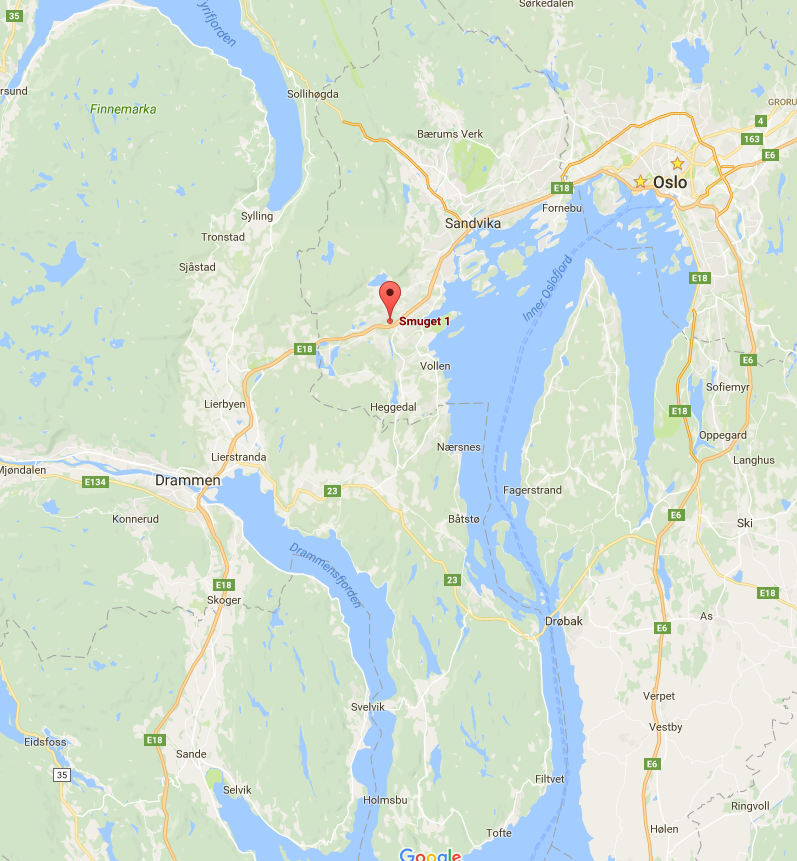
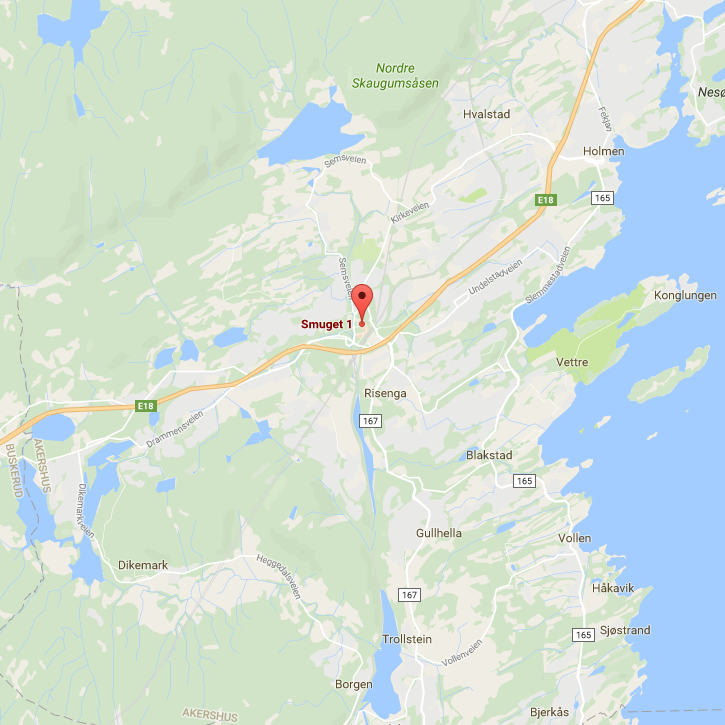
final touches

diff --git a/docs/assets/styles/styles-b0dd0bec4f.css b/docs/assets/styles/styles-b0dd0bec4f.css
@@ -1,0 +1,1 @@
+/*! normalize.css v5.0.0 | MIT License | github.com/necolas/normalize.css */html{font-family:sans-serif;line-height:1.15;-ms-text-size-adjust:100%;-webkit-text-size-adjust:100%}body{margin:0}article,aside,footer,header,nav,section{display:block}h1{font-size:2em;margin:.67em 0}figcaption,figure,main{display:block}figure{margin:1em 40px}hr{box-sizing:content-box;height:0;overflow:visible}pre{font-family:monospace,monospace;font-size:1em}a{background-color:transparent;-webkit-text-decoration-skip:objects}a:active,a:hover{outline-width:0}abbr[title]{border-bottom:none;text-decoration:underline;text-decoration:underline dotted}b,strong{font-weight:inherit;font-weight:bolder}code,kbd,samp{font-family:monospace,monospace;font-size:1em}dfn{font-style:italic}mark{background-color:#ff0;color:#000}small{font-size:80%}sub,sup{font-size:75%;line-height:0;position:relative;vertical-align:baseline}sub{bottom:-.25em}sup{top:-.5em}audio,video{display:inline-block}audio:not([controls]){display:none;height:0}img{border-style:none}svg:not(:root){overflow:hidden}button,input,optgroup,select,textarea{font-family:sans-serif;font-size:100%;line-height:1.15;margin:0}button,input{overflow:visible}button,select{text-transform:none}[type=reset],[type=submit],button,html [type=button]{-webkit-appearance:button}[type=button]::-moz-focus-inner,[type=reset]::-moz-focus-inner,[type=submit]::-moz-focus-inner,button::-moz-focus-inner{border-style:none;padding:0}[type=button]:-moz-focusring,[type=reset]:-moz-focusring,[type=submit]:-moz-focusring,button:-moz-focusring{outline:1px dotted ButtonText}fieldset{border:1px solid silver;margin:0 2px;padding:.35em .625em .75em}legend{box-sizing:border-box;color:inherit;display:table;max-width:100%;padding:0;white-space:normal}progress{display:inline-block;vertical-align:baseline}textarea{overflow:auto}[type=checkbox],[type=radio]{box-sizing:border-box;padding:0}[type=number]::-webkit-inner-spin-button,[type=number]::-webkit-outer-spin-button{height:auto}[type=search]{-webkit-appearance:textfield;outline-offset:-2px}[type=search]::-webkit-search-cancel-button,[type=search]::-webkit-search-decoration{-webkit-appearance:none}::-webkit-file-upload-button{-webkit-appearance:button;font:inherit}details,menu{display:block}summary{display:list-item}canvas{display:inline-block}[hidden],template{display:none}*{box-sizing:border-box}body{font-family:Open-Sans,sans-serif;color:#333;overflow:visible}img{max-width:100%;height:auto;vertical-align:middle}a{color:#353535}@font-face{font-family:MyriadWebPro;src:url(../images/fonts/MyriadWebPro.ttf)}@font-face{font-family:MinionProSemibold;src:url(../images/fonts/MinionProSemibold.otf)}@font-face{font-family:MinionPro;src:url(../images/fonts/MinionPro.otf)}@font-face{font-family:MinionProRegular;src:url(../images/fonts/MinionProRegular.otf)}@font-face{font-family:MinionProBold;src:url(../images/fonts/MinionProBold.otf)}@font-face{font-family:MinionProMedium;src:url(../images/fonts/MinionProMedium.otf)}.icon{background-image:url(../../assets/images/sprites/sprite-0f9283b3.svg)}.icon--clear-view-escapes{width:142.4px;height:59.53px;background-position:0 0}.icon--comment{width:64px;height:64px;background-position:99.70443349753694% 0}.icon--facebook{width:21.23px;height:42.01px;background-position:26.040607071652357% 45.795830448496034%}.icon--fire{width:56px;height:64px;background-position:0 99.56481481481481%}.icon--globe{width:64px;height:64px;background-position:27.586206896551722% 99.56481481481481%}.icon--instagram{width:42.01px;height:42.01px;background-position:63.2917018534157% 49.234556504346486%}.icon--mail{width:64px;height:48px;background-position:0 48.00806451612903%}.icon--rain{width:64px;height:64px;background-position:99.70443349753694% 59.25925925925926%}.icon--star{width:64px;height:64px;background-position:59.11330049261084% 99.56481481481481%}.icon--twitter{width:51.78px;height:42.06px;background-position:94.04330452560171% 98.50700323226104%}.icon--wifi{width:60px;height:64px;background-position:68.79227053140097% 0}.icon--youtube{width:34.75px;height:42px;background-position:36.69752421959096% 45.792307692307695%}.header{background-color:#4e4e4e;width:100%;z-index:2;box-shadow:0 2px 5px -1px #000;overflow:visible;position:fixed;top:0}.header__nav{display:none}@media (min-width:820px){.header__nav{display:block}}.footer{background-color:#2d2d2d;display:block;line-height:24.6px}.footer__column{-ms-flex-preferred-size:30%;flex-basis:30%;margin-bottom:41px}.footer__column__text{color:#fff;font-weight:300;font-family:Open Sans,sans-serif}@media (min-width:820px){.footer__column{margin-bottom:0}}.footer__column--center{text-align:center}.footer__column--right{text-align:right}.page{display:-webkit-box;display:-ms-flexbox;display:flex;-webkit-box-orient:vertical;-webkit-box-direction:normal;-ms-flex-direction:column;flex-direction:column}.wrapper{max-width:1250px;margin:0 auto;padding:0 18px}.wrapper--no-medium-margin{padding:0}@media (min-width:1090px){.wrapper--no-medium-margin{padding:0}}.wrapper--small{max-width:400px;margin:0 auto;padding:0 18px}@media (min-width:820px){.wrapper--small{max-width:800px}}@media (min-width:1090px){.wrapper--small{max-width:1070px}}.logo{height:82px;position:relative}.logo__image{display:block;max-height:92px;position:absolute;top:50%;left:0;-webkit-transform:translateY(-50%);transform:translateY(-50%)}@media (min-width:1090px){.logo__image{left:40px}}.flex{display:block}@media (min-width:820px){.flex{display:-webkit-box;display:-ms-flexbox;display:flex;-webkit-box-pack:justify;-ms-flex-pack:justify;justify-content:space-between}}.flex--always-flex{display:-webkit-box;display:-ms-flexbox;display:flex;-webkit-box-pack:justify;-ms-flex-pack:justify;justify-content:space-between}.flex--column{-webkit-box-orient:vertical;-webkit-box-direction:normal;-ms-flex-direction:column;flex-direction:column}@media (min-width:820px){.flex--not-medium{display:block}}@media (min-width:1090px){.flex--not-medium{display:-webkit-box;display:-ms-flexbox;display:flex;-webkit-box-pack:justify;-ms-flex-pack:justify;justify-content:space-between}}.flex--mobile-direction-column{-webkit-box-orient:vertical;-webkit-box-direction:normal;-ms-flex-direction:column;flex-direction:column}@media (min-width:820px){.flex--mobile-direction-column{-webkit-box-orient:horizontal;-webkit-box-direction:normal;-ms-flex-direction:row;flex-direction:row}}.flex--mobile-switch{-webkit-box-ordinal-group:0;-ms-flex-order:-1;order:-1}@media (min-width:820px){.flex--mobile-switch{-webkit-box-ordinal-group:1;-ms-flex-order:0;order:0}}.flex--center{-webkit-box-align:center;-ms-flex-align:center;align-items:center}.flex--start{-webkit-box-align:start;-ms-flex-align:start;align-items:flex-start}.flex--end{-webkit-box-align:end;-ms-flex-align:end;align-items:flex-end}.flex--wrap{-ms-flex-wrap:wrap;flex-wrap:wrap}.flex--1{-webkit-box-flex:1;-ms-flex:1;flex:1}.flex--2{-webkit-box-flex:2;-ms-flex:2;flex:2}.flex--3{-webkit-box-flex:3;-ms-flex:3;flex:3}@media (min-width:1090px){.flex--desktop{display:-webkit-box;display:-ms-flexbox;display:flex;-webkit-box-pack:justify;-ms-flex-pack:justify;justify-content:space-between}}.nav{display:none;position:relative}.nav__button{position:absolute;right:10px;top:50%;-webkit-transform:translateY(-50%);transform:translateY(-50%)}@media (min-width:820px){.nav__button{display:none}}@media (min-width:820px){.nav{margin:0;text-align:right;margin-right:15px;display:block}.nav__link{display:inline-block;height:82px}.nav__link__item{display:inline-block;padding:0 8px;font-size:.8125rem;font-family:MyriadWebPro;font-weight:400;-webkit-transition:all .2s ease-out;transition:all .2s ease-out;line-height:82px;color:#788b8b}@media (min-width:1090px){.nav__link__item{padding:0 25px}}}.nav--active{color:#bdeff0}.page-section{margin:70px 0}.page-section--small{margin:50px 0}.page-section--relative{position:relative}.page-section--no-bottom{margin-bottom:0}.page-section--small-small-top{margin-top:10px;margin-bottom:170px}@media (min-width:820px){.page-section--small-small-top{margin:70px 0}}.page-section--large{height:82px}.page-section--center{margin:70px 0}.section-title{text-align:center;font-size:2rem;margin-bottom:100px}@media (min-width:530px){.section-title{font-size:3rem}}@media (min-width:820px){.section-title{font-size:4rem}}@media (min-width:1090px){.section-title{font-size:5rem}}.section-title--no-margin{margin:initial}.section-title--full-margin{margin:100px 0}.section-title--small{font-size:1.4rem}@media (min-width:530px){.section-title--small{font-size:1.8rem}}@media (min-width:820px){.section-title--small{font-size:2.4rem}}@media (min-width:1090px){.section-title--small{font-size:2.6rem}}.section-title--white{color:#fff}.section-subtitle{text-align:center;font-size:1.6rem;margin-bottom:100px;font-weight:500;font-family:Open Sans,sans-serif}@media (min-width:530px){.section-subtitle{font-size:1.9rem}}@media (min-width:820px){.section-subtitle{font-size:2.2rem}}@media (min-width:1090px){.section-subtitle{font-size:2.5rem}}.section-subtitle--small{font-size:1rem}@media (min-width:530px){.section-subtitle--small{font-size:1.3rem}}@media (min-width:820px){.section-subtitle--small{font-size:1.5rem}}@media (min-width:1090px){.section-subtitle--small{font-size:1.8rem}}.section-subtitle--no-margin{margin:initial}.section-subtitle--small-margin{margin:50px 0}.section-subtitle--tiny-t-margin{margin-top:10px}.hero-section{height:100vh;overflow:hidden;position:relative}.hero-section__img{-webkit-box-flex:1;-ms-flex-positive:1;flex-grow:1;-o-object-fit:cover;object-fit:cover}.hero-section__text{position:absolute;top:0;bottom:0;left:0;right:0;background-color:rgba(0,0,0,.5);text-align:center}.hero-section__text__items{position:absolute;top:50%;left:50%;-webkit-transform:translate(-50%,-50%);transform:translate(-50%,-50%)}.btn{background-color:#27ae60;text-decoration:none;color:#fff;font-size:1rem;font-weight:500;letter-spacing:3px;font-family:Open Sans,sans-serif;padding:10px 20px;display:inline-block;border:3px solid #27ae60;-webkit-transition:all .3s ease-out;transition:all .3s ease-out}@media (min-width:530px){.btn{font-size:1.1rem}}@media (min-width:820px){.btn{font-size:1.4rem}}@media (min-width:1090px){.btn{font-size:1.6rem}}.btn:hover{color:#27ae60;background:transparent;letter-spacing:5px}.btn--large{padding:20px 40px}.link{text-decoration:none}.link--white{color:#fff}.link--underline{text-decoration:underline;cursor:pointer}.icons{color:#353535}.icons--white{color:#fff}.icons--r-margin{margin-right:5px}.icon-link{margin-bottom:10px}.icon-link__icon-column{width:20px}.social-links{min-width:300px}.social-links__item{padding:8.2px;color:#fff;font-size:2rem;-webkit-transition:all .2s ease-out;transition:all .2s ease-out}.social-links__item:hover{-webkit-transform:scale(1.4);transform:scale(1.4);cursor:pointer}@media (min-width:820px){.social-links{text-align:center}}.social-links__yt:hover{color:#cd201f}.social-links__fb:hover{color:#3b5998}.social-links__in:hover{color:#0077b5}.social-links__ig:hover{color:#c13584}.social-links__tw:hover{color:#1da1f2}.social-links__gp:hover{color:#dd4b39}.tripple-column{-ms-flex-wrap:wrap;flex-wrap:wrap}.tripple-column__panel{-ms-flex-preferred-size:49.9%;flex-basis:49.9%;background-color:#e9e9e9;padding:40px;margin-top:2px;color:#4c4c4c}@media (min-width:1090px){.tripple-column__panel{background-color:#f7f7f7;padding:40px;-ms-flex-preferred-size:33.2%;flex-basis:33.2%}}.tripple-column__panel--blank{background-color:#fff}@media (min-width:1090px){.tripple-column__panel--blank{background-color:#fff}}.tripple-column__panel__capital,.tripple-column__panel__heading{font-size:1.25rem;margin-bottom:30px;margin-top:0;font-family:MinionProSemibold;font-weight:400}.tripple-column__panel__capital{margin-top:30px;margin-bottom:0;color:#4c4c4c}.tripple-column__panel__content{font-size:.9375rem;color:#4a494a;font-family:MinionProRegular;line-height:20px}.tripple-column--center{text-align:center}.tripple-column__image{border-radius:50%;max-width:150px;overflow:hidden;margin:0 auto}.tripple-column__portfolio__linkedin{margin-top:10px;display:block}.tripple-column__portfolio__panel{padding-bottom:10px;-ms-flex-preferred-size:48%;flex-basis:48%}@media (min-width:820px){.tripple-column__portfolio__panel{padding-bottom:105px}}@media (min-width:1090px){.tripple-column__portfolio__panel{-ms-flex-preferred-size:30%;flex-basis:30%}}.tripple-column__portfolio__panel__image{border:1px solid #7fcfd9;min-width:102px;max-width:102px}.tripple-column__portfolio__panel__text{margin-left:28px;font-size:.75rem;font-family:MinionProSemibold;-webkit-box-flex:1;-ms-flex-positive:1;flex-grow:1}.tripple-column__portfolio__panel__text__info{margin:.2em 0;color:#4a494a;font-size:.9375rem;font-family:MinionProRegular;line-height:20px}.tripple-column__portfolio__panel__text__info:first-child{margin-top:0}.tripple-column__portfolio__panel__text__link{font-family:MinionPro;color:#4a494a;font-size:.9375rem;line-height:20px}.tripple-column__portfolio__panel__text__paragraph{margin:.4em 0;color:#6d6d6d}.tripple-column__portfolio__panel__text__position{font-size:.75rem;font-family:MinionProBold;color:#4c4c4c;letter-spacing:1.2px}.map{-ms-flex-preferred-size:47%;flex-basis:47%}.map__image{margin-bottom:50px;width:100%}@media (min-width:820px){.map__image{margin-bottom:100px}}.map__text{background-color:rgba(0,0,0,.8);position:absolute;max-width:1000px;width:100%;top:30%;left:50%;-webkit-transform:translateX(-50%);transform:translateX(-50%);display:-webkit-box;display:-ms-flexbox;display:flex;-ms-flex-wrap:wrap;flex-wrap:wrap;padding-top:30px;padding-bottom:30px;z-index:1}@media (min-width:820px){.map__text{padding:10px;top:30%}}@media (min-width:1090px){.map__text{top:95%}}.map__text--1{-webkit-box-ordinal-group:2;-ms-flex-order:1;order:1}@media (min-width:820px){.map__text--1{-webkit-box-ordinal-group:2;-ms-flex-order:1;order:1}}.map__text--2{-webkit-box-ordinal-group:4;-ms-flex-order:3;order:3}@media (min-width:820px){.map__text--2{-webkit-box-ordinal-group:3;-ms-flex-order:2;order:2}}.map__text--3{-webkit-box-ordinal-group:3;-ms-flex-order:2;order:2}@media (min-width:820px){.map__text--3{-webkit-box-ordinal-group:4;-ms-flex-order:3;order:3}}.map__text__paragraph{color:#fff;text-align:center;font-family:MinionProRegular;font-size:.9375rem;margin:8px;display:inline-block;-webkit-box-flex:1;-ms-flex:1;flex:1;min-width:200px;margin-bottom:20px;margin-top:20px}@media (min-width:820px){.map__text__paragraph{margin-top:50px;margin-bottom:50px}}.banner{max-height:200px;position:relative}@media (min-width:820px){.banner{max-height:350px}}@media (min-width:1090px){.banner{max-height:440px}}.banner__heading{position:absolute;top:50%;left:50%;-webkit-transform:translate(-50%,-50%);transform:translate(-50%,-50%);padding:18px;text-align:center;width:85%}@media (min-width:820px){.banner__heading{max-width:662px;text-align:left;left:82px;-webkit-transform:translateY(-50%);transform:translateY(-50%)}}@media (min-width:1090px){.banner__heading{max-width:872px;text-align:left}}.banner__heading__text{font-family:MinionProMedium;font-size:1.5rem;font-weight:500;margin:0;color:#fff}@media (min-width:820px){.banner__heading__text{font-size:3rem}}@media (min-width:1090px){.banner__heading__text{font-size:4rem}}.banner__img--1{overflow:visible;position:relative;max-height:440px;-ms-flex-preferred-size:37%;flex-basis:37%;width:100%;height:100%;height:200px}@media (min-width:820px){.banner__img--1{height:350px}}@media (min-width:1090px){.banner__img--1{height:440px}}.banner__img--1--1{background:url(../images/Forside_abstrakt.jpg) no-repeat 50%;background-size:cover}.banner__img--1--2{background:url(../images/digitalisering_abstrakt.jpg) no-repeat 50%;background-size:cover}.banner__img--1--3{background:url(../images/rekrutering_abstrakt.jpg) no-repeat 50%;background-size:cover}.banner__img--1--4{background:url(../images/innovasjon_abstrakt.jpg) no-repeat 50%;background-size:cover}.banner__img--1--5{background:url(../images/ledelse_abstrakt.jpg) no-repeat 50%;background-size:cover}.banner__img--1--6{background:url(../images/resultatforbedring_abstrakt.jpg) no-repeat 50%;background-size:cover}.banner__img--1--7{background:url(../images/styrearbeid_abstrakt.jpg) no-repeat 50%;background-size:cover}.banner__img--2{overflow:visible;position:relative;max-height:440px;-ms-flex-preferred-size:63%;flex-basis:63%;width:100%;height:100%;background-size:cover;height:200px}@media (min-width:820px){.banner__img--2{height:350px}}@media (min-width:1090px){.banner__img--2{height:440px}}.banner__img--2--1{background:url(../images/Forside_coness.jpg) no-repeat 50%;background-size:cover}.banner__img--2--2{background:url(../images/digitalisering_coness.jpg) no-repeat 50%;background-size:cover}.banner__img--2--3{background:url(../images/rekrutering_coness.jpg) no-repeat 50%;background-size:cover}.banner__img--2--4{background:url(../images/innovasjon_coness.jpg) no-repeat 50%;background-size:cover}.banner__img--2--5{background:url(../images/styrearbeid_coness.jpg) no-repeat 50%;background-size:cover}.banner__img--2--6{background:url(../images/resultatforbedring_coness.jpg) no-repeat 50%;background-size:cover}.banner__img--2--7{background:url(../images/ledelse_coness.jpg) no-repeat 50%;background-size:cover}.defining-panel{background-color:#e9e9e9}@media (min-width:1090px){.defining-panel{background-color:#f7f7f7}}.defining-panel__panel{padding:10px 40px}@media (min-width:820px){.defining-panel__panel{padding:40px}}.defining-panel__heading{font-family:MinionProSemibold;font-size:1.25rem;color:#4c4c4c;line-height:26px;margin-bottom:-10px}@media (min-width:820px){.defining-panel__heading{margin:initial}}.defining-panel__text{font-family:MinionProRegular;font-size:.9375rem;line-height:20px;max-width:500px;color:#4c4c4c}@media (min-width:820px){.defining-panel__text{margin-bottom:30px;margin-top:0}}.relative{position:relative}.mobile-menu{display:none;position:fixed;width:100%;z-index:2;background-color:#4d4d4d;top:0;bottom:0}.mobile-menu__nav{text-align:right;display:inline-block;line-height:60px;font-family:MyriadWebPro;padding:0;margin-top:40px;width:100%;height:100%;list-style-type:none}.mobile-menu__link,.mobile-menu__nav{text-decoration:none}.mobile-menu__text{border-bottom:1px solid #788b8b;color:#bdeff0}.mobile-menu__offset{padding-right:50px}.overlay{display:none;background-color:rgba(0,0,0,.85);max-width:747px;min-width:100%;position:absolute;top:82px;padding:20px}@media (min-width:820px){.overlay{min-width:747px;padding:100px 116px;position:fixed;top:50%;left:50%;-webkit-transform:translate(-50%,-50%);transform:translate(-50%,-50%)}}.overlay__text{color:#fff;font-family:MinionProRegular;font-size:.9375rem;line-height:19px;margin:8px 0}.italic{font-style:italic}.dots{width:107px;height:30px;position:absolute;bottom:20px;left:50%;-webkit-transform:translateX(-50%);transform:translateX(-50%)}.dots__dot{height:12px;width:12px;background-color:#555551;opacity:.7;display:inline-block;border-radius:6px;position:relative;top:50%;-webkit-transform:translateY(-50%);transform:translateY(-50%)}.dots--active{background-color:#fff;opacity:1}

diff --git a/docs/index.html b/docs/index.html
@@ -8,7 +8,7 @@
   <meta name="keywords" content="">
   <meta name="description" content="">
   
-  <link rel="stylesheet" href="assets/styles/styles-a9adf563ee.css"/>
+  <link rel="stylesheet" href="assets/styles/styles-b0dd0bec4f.css"/>
 
   <script src="assets/scripts/Vendor-f135b096da.js"></script>
 </head>
@@ -73,15 +73,24 @@
       <div class="tripple-column__panel">
         <h2 class="tripple-column__panel__heading">Vi engasjerer oss i virksomheter som om de er våre egne
         </h2>
-        <p class="tripple-column__panel__content">I Coness vil du finne rådgivere med bred erfaring fra norsk og internasjonalt næringsliv. Våre konsulenter har arbeidet som spesialister og som ledere i små og store virksomheter. Vi leverer tjenester på tvers av bransjer og virksomhetsområder. Teknologi, energi, offshore, handel, kjedevirksomhet, reiseliv og gjenvinningsindustri er slike eksempler. <span class="italic">Vi ønsker å hjelpe deg som rådgiver eller som forretningspartner.</span></p>
+        <p class="tripple-column__panel__content">I Coness vil du finne rådgivere med bred erfaring fra norsk og internasjonalt næringsliv. Våre konsulenter har arbeidet som spesialister og som ledere i små og store virksomheter.
+        </p>
+        <p class="tripple-column__panel__content">
+        Vi leverer tjenester på tvers av bransjer og virksomhetsområder. Teknologi, energi, offshore, handel, kjedevirksomhet, reiseliv og gjenvinningsindustri er slike eksempler. <span class="italic">Vi ønsker å hjelpe deg som rådgiver eller som forretningspartner.</span></p>
       </div>
       <div class="tripple-column__panel">
         <h2 class="tripple-column__panel__heading">Våre konsepter er basert på erfaring og forskning</h2>
-        <p class="tripple-column__panel__content">Vi ønsker å arbeide nær deg som kunde for å sikre oss god forståelse for virksomhetens utfordringer. Dine premisser er sammen med vår kompetanse grunnlaget for våre råd. Ny teknologi, automatisering og digitalisering vil endre arbeidshverdagen og påvirke måten vi alle arbeider på i tiden som kommer. Bærekraftige resultater krever innsikt og tilpasning – til teknologiske løsninger, men også til effektiv ledelse og styring. <span class="italic">Vi har kompetanse til å være din rådgiver.</span></p>
+        <p class="tripple-column__panel__content">Vi ønsker å arbeide nær deg som kunde for å sikre oss god forståelse for virksomhetens utfordringer. Dine premisser er sammen med vår kompetanse grunnlaget for våre råd. 
+        </p>
+        <p class="tripple-column__panel__content">
+        Ny teknologi, automatisering og digitalisering vil endre arbeidshverdagen og påvirke måten vi alle arbeider på i tiden som kommer. Bærekraftige resultater krever innsikt og tilpasning – til teknologiske løsninger, men også til effektiv ledelse og styring. <span class="italic">Vi har kompetanse til å være din rådgiver.</span></p>
       </div>
       <div class="tripple-column__panel">
-        <h2 class="tripple-column__panel__heading">Vi styrker virksomheter gjennom utvikling av mennesker og sikring av resultater</h2>
-        <p class="tripple-column__panel__content">Ingenting gleder oss mer enn å oppnå resultater sammen med våre kunder. Målet er alltid å gjøre virksomheter sterkere, mer robust og enda mer konkurransedyktig. Men god rådgiving er ikke bare å stake ut utviklingsretninger og strategiske mål. God rådgivning er å skape en varig effektiv ledelse. Det handler om å bygge opp medarbeidere, arbeide i team og skape resultater sammen. <span class="italic">Vi bidrar til gode prosesser som skaper engasjement, lojalitet og motivasjon og sikrer at virksomheten når sine mål.</span>
+        <h2 class="tripple-column__panel__heading">Vi bidrar til utvikling av mennesker og sikring av resultater</h2>
+        <p class="tripple-column__panel__content">Ingenting gleder oss mer enn å oppnå resultater sammen med våre kunder. Målet er alltid å gjøre virksomheter sterkere, mer robust og enda mer konkurransedyktig. Men god rådgiving er ikke bare å stake ut utviklingsretninger og strategiske mål. 
+        </p>
+        <p class="tripple-column__panel__content">
+        God rådgivning er å skape en varig effektiv ledelse. Det handler om å bygge opp medarbeidere, arbeide i team og skape resultater sammen. <span class="italic">Vi bidrar til gode prosesser som skaper engasjement, lojalitet og motivasjon og sikrer at virksomheten når sine mål.</span>
 </p>
       </div>
     </div>

diff --git a/app/index.html b/app/index.html
@@ -77,15 +77,24 @@
       <div class="tripple-column__panel">
         <h2 class="tripple-column__panel__heading">Vi engasjerer oss i virksomheter som om de er våre egne
         </h2>
-        <p class="tripple-column__panel__content">I Coness vil du finne rådgivere med bred erfaring fra norsk og internasjonalt næringsliv. Våre konsulenter har arbeidet som spesialister og som ledere i små og store virksomheter. Vi leverer tjenester på tvers av bransjer og virksomhetsområder. Teknologi, energi, offshore, handel, kjedevirksomhet, reiseliv og gjenvinningsindustri er slike eksempler. <span class="italic">Vi ønsker å hjelpe deg som rådgiver eller som forretningspartner.</span></p>
+        <p class="tripple-column__panel__content">I Coness vil du finne rådgivere med bred erfaring fra norsk og internasjonalt næringsliv. Våre konsulenter har arbeidet som spesialister og som ledere i små og store virksomheter.
+        </p>
+        <p class="tripple-column__panel__content">
+        Vi leverer tjenester på tvers av bransjer og virksomhetsområder. Teknologi, energi, offshore, handel, kjedevirksomhet, reiseliv og gjenvinningsindustri er slike eksempler. <span class="italic">Vi ønsker å hjelpe deg som rådgiver eller som forretningspartner.</span></p>
       </div>
       <div class="tripple-column__panel">
         <h2 class="tripple-column__panel__heading">Våre konsepter er basert på erfaring og forskning</h2>
-        <p class="tripple-column__panel__content">Vi ønsker å arbeide nær deg som kunde for å sikre oss god forståelse for virksomhetens utfordringer. Dine premisser er sammen med vår kompetanse grunnlaget for våre råd. Ny teknologi, automatisering og digitalisering vil endre arbeidshverdagen og påvirke måten vi alle arbeider på i tiden som kommer. Bærekraftige resultater krever innsikt og tilpasning – til teknologiske løsninger, men også til effektiv ledelse og styring. <span class="italic">Vi har kompetanse til å være din rådgiver.</span></p>
+        <p class="tripple-column__panel__content">Vi ønsker å arbeide nær deg som kunde for å sikre oss god forståelse for virksomhetens utfordringer. Dine premisser er sammen med vår kompetanse grunnlaget for våre råd. 
+        </p>
+        <p class="tripple-column__panel__content">
+        Ny teknologi, automatisering og digitalisering vil endre arbeidshverdagen og påvirke måten vi alle arbeider på i tiden som kommer. Bærekraftige resultater krever innsikt og tilpasning – til teknologiske løsninger, men også til effektiv ledelse og styring. <span class="italic">Vi har kompetanse til å være din rådgiver.</span></p>
       </div>
       <div class="tripple-column__panel">
-        <h2 class="tripple-column__panel__heading">Vi styrker virksomheter gjennom utvikling av mennesker og sikring av resultater</h2>
-        <p class="tripple-column__panel__content">Ingenting gleder oss mer enn å oppnå resultater sammen med våre kunder. Målet er alltid å gjøre virksomheter sterkere, mer robust og enda mer konkurransedyktig. Men god rådgiving er ikke bare å stake ut utviklingsretninger og strategiske mål. God rådgivning er å skape en varig effektiv ledelse. Det handler om å bygge opp medarbeidere, arbeide i team og skape resultater sammen. <span class="italic">Vi bidrar til gode prosesser som skaper engasjement, lojalitet og motivasjon og sikrer at virksomheten når sine mål.</span>
+        <h2 class="tripple-column__panel__heading">Vi bidrar til utvikling av mennesker og sikring av resultater</h2>
+        <p class="tripple-column__panel__content">Ingenting gleder oss mer enn å oppnå resultater sammen med våre kunder. Målet er alltid å gjøre virksomheter sterkere, mer robust og enda mer konkurransedyktig. Men god rådgiving er ikke bare å stake ut utviklingsretninger og strategiske mål. 
+        </p>
+        <p class="tripple-column__panel__content">
+        God rådgivning er å skape en varig effektiv ledelse. Det handler om å bygge opp medarbeidere, arbeide i team og skape resultater sammen. <span class="italic">Vi bidrar til gode prosesser som skaper engasjement, lojalitet og motivasjon og sikrer at virksomheten når sine mål.</span>
 </p>
       </div>
     </div>

diff --git a/docs/styrearbeid.html b/docs/styrearbeid.html
@@ -8,7 +8,7 @@
   <meta name="keywords" content="">
   <meta name="description" content="">
   
-  <link rel="stylesheet" href="assets/styles/styles-a9adf563ee.css"/>
+  <link rel="stylesheet" href="assets/styles/styles-b0dd0bec4f.css"/>
 
   <script src="assets/scripts/Vendor-f135b096da.js"></script>
 </head>
@@ -79,14 +79,14 @@
 				</div>
 				<div class="flex--2 defining-panel__panel">
 					<p class="defining-panel__text">
-						Vi benytter vår ledelse- og rådgiverfaring som basis for å jobbe med videreutvikling av samspillet mellom styret og ledelsen i de selskapene vi arbeider med. For oss er det et grunnleggende prinsipp at et styre skal evne å motivere ledelsen til hele tiden å forbedre sine resultater.
+						Vi benytter vår ledelse- og rådgivererfaring som basis for å jobbe med videreutvikling av samspillet mellom styret og ledelsen i de selskapene vi arbeider med. For oss er det et grunnleggende prinsipp at et styre skal evne å motivere ledelsen til hele tiden å forbedre sine resultater.
 					</p>
 					<p class="defining-panel__text">
 						Coness utfører styreevalueringer for selskaper som står overfor nye markedsmessige og/eller teknologiske utfordringer. Våre styreevalueringer gjennomføres ved hjelp av intervjuer fulgt opp av digitale spørreundersøkelser. 
 					</p>
 					<p class="defining-panel__text">
-						Vi vurderer styrenes kompetanse og sammensetning sett opp mot selskapenes strategier og utviklingsbehov. Alle aspekter ved styrenes virksomhet og ansvar blir vurdert.
-						<span class="italic">Coness har erfaring med å finne nye, dyktige styremedlemmer basert på endringsbehov styret definere som nødvendige for å styrke styrets innsikt og kompetanse.</span>
+						Vi vurderer styrets kompetanse og sammensetning sett opp mot selskapenes strategier og utviklingsbehov. Alle aspekter ved styrets virksomhet og ansvar blir vurdert.
+						Coness har erfaring med å finne nye, dyktige styremedlemmer basert på endringsbehov styret definere som nødvendige for å styrke styrets innsikt og kompetanse.
 
 					</p>
 				</div>

diff --git a/app/styrearbeid.html b/app/styrearbeid.html
@@ -83,14 +83,14 @@
 				</div>
 				<div class="flex--2 defining-panel__panel">
 					<p class="defining-panel__text">
-						Vi benytter vår ledelse- og rådgiverfaring som basis for å jobbe med videreutvikling av samspillet mellom styret og ledelsen i de selskapene vi arbeider med. For oss er det et grunnleggende prinsipp at et styre skal evne å motivere ledelsen til hele tiden å forbedre sine resultater.
+						Vi benytter vår ledelse- og rådgivererfaring som basis for å jobbe med videreutvikling av samspillet mellom styret og ledelsen i de selskapene vi arbeider med. For oss er det et grunnleggende prinsipp at et styre skal evne å motivere ledelsen til hele tiden å forbedre sine resultater.
 					</p>
 					<p class="defining-panel__text">
 						Coness utfører styreevalueringer for selskaper som står overfor nye markedsmessige og/eller teknologiske utfordringer. Våre styreevalueringer gjennomføres ved hjelp av intervjuer fulgt opp av digitale spørreundersøkelser. 
 					</p>
 					<p class="defining-panel__text">
-						Vi vurderer styrenes kompetanse og sammensetning sett opp mot selskapenes strategier og utviklingsbehov. Alle aspekter ved styrenes virksomhet og ansvar blir vurdert.
-						<span class="italic">Coness har erfaring med å finne nye, dyktige styremedlemmer basert på endringsbehov styret definere som nødvendige for å styrke styrets innsikt og kompetanse.</span>
+						Vi vurderer styrets kompetanse og sammensetning sett opp mot selskapenes strategier og utviklingsbehov. Alle aspekter ved styrets virksomhet og ansvar blir vurdert.
+						Coness har erfaring med å finne nye, dyktige styremedlemmer basert på endringsbehov styret definere som nødvendige for å styrke styrets innsikt og kompetanse.
 
 					</p>
 				</div>

diff --git a/app/temp/styles/styles.css b/app/temp/styles/styles.css
@@ -688,7 +688,7 @@ a {
 @media (min-width: 1090px) {
 
   .wrapper--no-medium-margin {
-    padding: 0 18px;
+    padding: 0px;
   }
 }
 
@@ -860,6 +860,18 @@ a {
   -webkit-box-flex: 3;
       -ms-flex: 3;
           flex: 3;
+}
+
+@media (min-width: 1090px) {
+
+  .flex--desktop {
+    display: -webkit-box;
+    display: -ms-flexbox;
+    display: flex;
+    -webkit-box-pack: justify;
+        -ms-flex-pack: justify;
+            justify-content: space-between;
+  }
 }
 
 .nav {
@@ -1275,8 +1287,8 @@ a {
 }
 
 .tripple-column__panel {
-  -ms-flex-preferred-size: 33.2%;
-      flex-basis: 33.2%;
+  -ms-flex-preferred-size: 49.9%;
+      flex-basis: 49.9%;
   background-color: #E9E9E9;
   padding: 40px;
   margin-top: 2px;
@@ -1288,6 +1300,8 @@ a {
   .tripple-column__panel {
     background-color: #F7F7F7;
     padding: 40px;
+    -ms-flex-preferred-size: 33.2%;
+        flex-basis: 33.2%;
   }
 }
 
@@ -1414,10 +1428,20 @@ a {
 }
 
 .map {
-	position: relative;
+	-ms-flex-preferred-size: 47%;
+	    flex-basis: 47%;
 }
 
 .map__image {
+  margin-bottom: 50px;
+  width: 100%;
+}
+
+@media (min-width: 820px) {
+
+  .map__image {
+    margin-bottom: 100px;
+  }
 }
 
 .map__text {
@@ -1425,7 +1449,7 @@ a {
   position: absolute;
   max-width: 1000px;
   width: 100%;
-  top: 60%;
+  top: 30%;
   left: 50%;
   -webkit-transform: translateX(-50%);
           transform: translateX(-50%);
@@ -1436,12 +1460,21 @@ a {
       flex-wrap: wrap;
   padding-top: 30px;
   padding-bottom: 30px;
+  z-index: 500;
 }
 
 @media (min-width: 820px) {
 
   .map__text {
     padding: 10px;
+    top: 30%;
+  }
+}
+
+@media (min-width: 1090px) {
+
+  .map__text {
+    top: 95%;
   }
 }
 
@@ -1846,7 +1879,6 @@ a {
 
 .italic {
 	font-style: italic;
-	font-weight: 600;
 }
 
 .dots {

diff --git a/docs/kontakt-oss.html b/docs/kontakt-oss.html
@@ -8,7 +8,7 @@
   <meta name="keywords" content="">
   <meta name="description" content="">
   
-  <link rel="stylesheet" href="assets/styles/styles-a9adf563ee.css"/>
+  <link rel="stylesheet" href="assets/styles/styles-b0dd0bec4f.css"/>
 
   <script src="assets/scripts/Vendor-f135b096da.js"></script>
 </head>
@@ -50,22 +50,35 @@
 	</div>
 
 	<!-- Map -->
-	<div class="wrapper wrapper--no-medium-margin">
+	<div class="wrapper wrapper--no-medium-margin flex--desktop relative">
 		<div class="map">
 			<picture>
 				<source class="map__image" srcset="assets/images/map--mobile.png" media="(max-width:850px)">
 				<img class="map__image" srcset="assets/images/map--desktop.png" media="(min-witch:851px)">
 			</picture>
-			<div class="map__text">
+		</div>
+		<div class="map">
+			<picture>
+				<source class="map__image" srcset="assets/images/map-2--mobile.png" media="(max-width:850px)">
+				<img class="map__image" srcset="assets/images/map-2--desktop.png" media="(min-witch:851px)">
+			</picture>
+		</div>
+		<div class="map__text">
 				<!-- <div class="page-section--small"> -->
 						<p class="map__text__paragraph map__text--1">Smuget 1, 4etg, 1382 Asker</p>
 						<p class="map__text__paragraph map__text--2">coness@coness.no</p>
 						<p class="map__text__paragraph map__text--3">Filipstad Brygge 1, 2etg, 0252 Oslo</p>
 				<!-- </div> -->
 			</div>
-		</div>
 	</div>
-	
+	<!-- <div class="wrapper wrapper--no-medium-margin">
+		<div class="map">
+			<picture>
+				<source class="map__image" srcset="assets/images/map--mobile.png" media="(max-width:850px)">
+				<img class="map__image" srcset="assets/images/map--desktop.png" media="(min-witch:851px)">
+			</picture>
+		</div>
+	</div> -->
 
 	<script src="assets/scripts/App-d13ba959a6.js"></script> 
 

diff --git a/app/kontakt-oss.html b/app/kontakt-oss.html
@@ -54,22 +54,35 @@
 	</div>
 
 	<!-- Map -->
-	<div class="wrapper wrapper--no-medium-margin">
+	<div class="wrapper wrapper--no-medium-margin flex--desktop relative">
 		<div class="map">
 			<picture>
 				<source class="map__image" srcset="assets/images/map--mobile.png" media="(max-width:850px)">
 				<img class="map__image" srcset="assets/images/map--desktop.png" media="(min-witch:851px)">
 			</picture>
-			<div class="map__text">
+		</div>
+		<div class="map">
+			<picture>
+				<source class="map__image" srcset="assets/images/map-2--mobile.png" media="(max-width:850px)">
+				<img class="map__image" srcset="assets/images/map-2--desktop.png" media="(min-witch:851px)">
+			</picture>
+		</div>
+		<div class="map__text">
 				<!-- <div class="page-section--small"> -->
 						<p class="map__text__paragraph map__text--1">Smuget 1, 4etg, 1382 Asker</p>
 						<p class="map__text__paragraph map__text--2">coness@coness.no</p>
 						<p class="map__text__paragraph map__text--3">Filipstad Brygge 1, 2etg, 0252 Oslo</p>
 				<!-- </div> -->
 			</div>
-		</div>
 	</div>
-	
+	<!-- <div class="wrapper wrapper--no-medium-margin">
+		<div class="map">
+			<picture>
+				<source class="map__image" srcset="assets/images/map--mobile.png" media="(max-width:850px)">
+				<img class="map__image" srcset="assets/images/map--desktop.png" media="(min-witch:851px)">
+			</picture>
+		</div>
+	</div> -->
 
 	<!-- build:js assets/scripts/App.js -->
   <script type="text/javascript" src="temp/scripts/App.js"></script>

diff --git a/docs/innovasjon.html b/docs/innovasjon.html
@@ -8,7 +8,7 @@
   <meta name="keywords" content="">
   <meta name="description" content="">
   
-  <link rel="stylesheet" href="assets/styles/styles-a9adf563ee.css"/>
+  <link rel="stylesheet" href="assets/styles/styles-b0dd0bec4f.css"/>
 
   <script src="assets/scripts/Vendor-f135b096da.js"></script>
 </head>
@@ -83,7 +83,7 @@
 						Skillelinjene mellom forretningsutvikling og innovasjon viskes ut. Innovasjon endrer forretningsmodeller, og forretningsmodeller skaper innovasjon.
 					</p>
 					<p class="defining-panel__text">
-						Vi har lang erfaring med å håndtere krefter som utløses i skjæringspunktet mellom det etablerte og det ukjente. <span class="italic">Vi tilbyr vår kompetanse for å sikre gode forretnings- og innovasjonsprosesser og kraft til implementering av endringer – i tett samarbeid med ledelse og linjen.</span>
+						Vi har lang erfaring med å håndtere krefter som utløses i skjæringspunktet mellom det etablerte og det ukjente. Vi tilbyr vår kompetanse for å sikre gode forretnings- og innovasjonsprosesser og kraft til implementering av endringer – i tett samarbeid med ledelse og øvrig organisasjon.
 
 					</p>
 				</div>

diff --git a/docs/rekrutering.html b/docs/rekrutering.html
@@ -8,7 +8,7 @@
   <meta name="keywords" content="">
   <meta name="description" content="">
   
-  <link rel="stylesheet" href="assets/styles/styles-a9adf563ee.css"/>
+  <link rel="stylesheet" href="assets/styles/styles-b0dd0bec4f.css"/>
 
   <script src="assets/scripts/Vendor-f135b096da.js"></script>
 </head>
@@ -85,7 +85,7 @@
 						Resultatet av en ansettelse ser vi først når personen har fungert i stillingen en periode. Det er derfor viktig at rekrutteringsprosessen gjennomføres profesjonelt for å avdekke forutsetningene kandidaten og bedriften har for å lykkes sammen. 
 					</p>
 					<p class="defining-panel__text">
-						Vi rekrutterer gjennom aktivt å søke etter kandidater i markedet og/eller gjennom stillingsannonser. <span class="italic">Fra prosessens oppstart til ansettelse er vårt mål å skape suksess for din virksomhet og for den som ansettes. </span>
+						Vi rekrutterer gjennom aktivt å søke etter kandidater i markedet og/eller gjennom stillingsannonser. Fra prosessens oppstart til ansettelse er vårt mål å skape suksess for din virksomhet og for den som ansettes.
 
 					</p>
 				</div>

diff --git a/app/innovasjon.html b/app/innovasjon.html
@@ -87,7 +87,7 @@
 						Skillelinjene mellom forretningsutvikling og innovasjon viskes ut. Innovasjon endrer forretningsmodeller, og forretningsmodeller skaper innovasjon.
 					</p>
 					<p class="defining-panel__text">
-						Vi har lang erfaring med å håndtere krefter som utløses i skjæringspunktet mellom det etablerte og det ukjente. <span class="italic">Vi tilbyr vår kompetanse for å sikre gode forretnings- og innovasjonsprosesser og kraft til implementering av endringer – i tett samarbeid med ledelse og linjen.</span>
+						Vi har lang erfaring med å håndtere krefter som utløses i skjæringspunktet mellom det etablerte og det ukjente. Vi tilbyr vår kompetanse for å sikre gode forretnings- og innovasjonsprosesser og kraft til implementering av endringer – i tett samarbeid med ledelse og øvrig organisasjon.
 
 					</p>
 				</div>

diff --git a/app/rekrutering.html b/app/rekrutering.html
@@ -89,7 +89,7 @@
 						Resultatet av en ansettelse ser vi først når personen har fungert i stillingen en periode. Det er derfor viktig at rekrutteringsprosessen gjennomføres profesjonelt for å avdekke forutsetningene kandidaten og bedriften har for å lykkes sammen. 
 					</p>
 					<p class="defining-panel__text">
-						Vi rekrutterer gjennom aktivt å søke etter kandidater i markedet og/eller gjennom stillingsannonser. <span class="italic">Fra prosessens oppstart til ansettelse er vårt mål å skape suksess for din virksomhet og for den som ansettes. </span>
+						Vi rekrutterer gjennom aktivt å søke etter kandidater i markedet og/eller gjennom stillingsannonser. Fra prosessens oppstart til ansettelse er vårt mål å skape suksess for din virksomhet og for den som ansettes.
 
 					</p>
 				</div>
